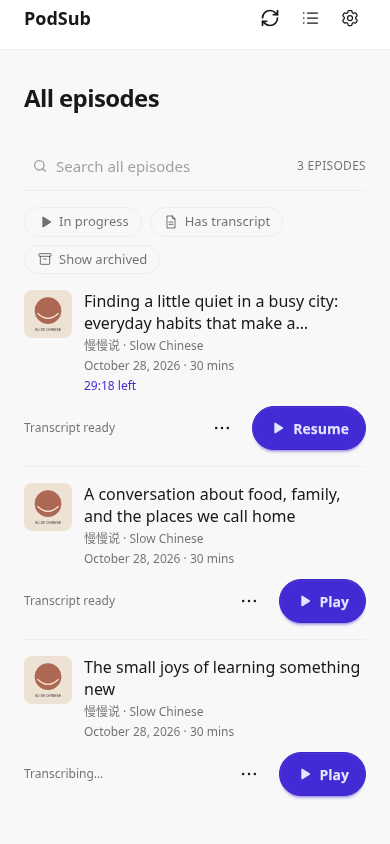
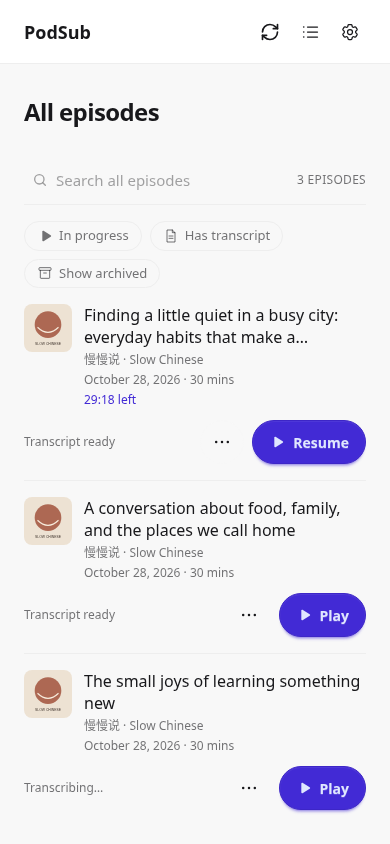
Keep episode actions above the transport row and within narrow screens

diff --git a/web/src/components/MobileEpisodeRow.tsx b/web/src/components/MobileEpisodeRow.tsx
@@ -161,7 +161,7 @@ export default function MobileEpisodeRow({
               id={`episode-actions-${e.id}`}
               role="dialog"
               aria-label="Episode actions"
-              className="absolute right-0 top-full z-40 mt-1 w-60 max-w-[calc(100vw-3rem)] rounded-xl border border-base-300 bg-base-100 p-2 shadow-lg"
+              className="absolute right-0 bottom-12 z-40 mb-2 w-60 max-w-[calc(100vw-3rem)] rounded-xl border border-base-300 bg-base-100 p-2 shadow-lg"
             >
               {e.hasTranscript ? (
                 <Link
